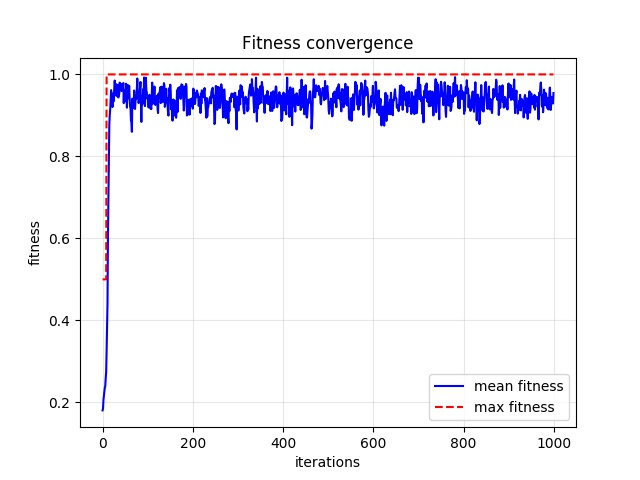
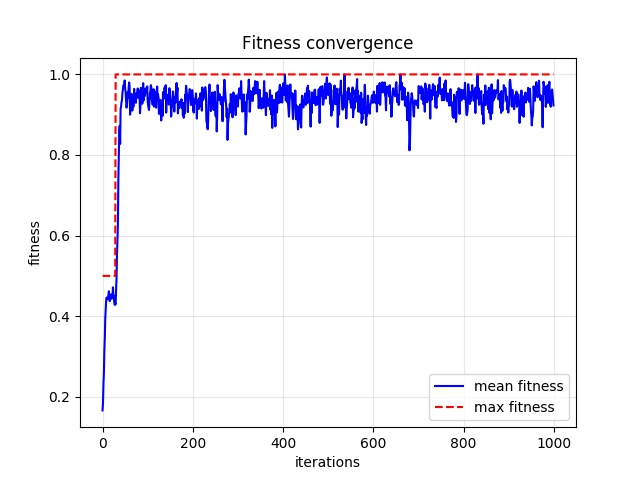
Add recombination pmx

diff --git a/n_queens/genetic_algorithm.py b/n_queens/genetic_algorithm.py
@@ -10,12 +10,20 @@ class MutationTypeError(Exception):
         super().__init__("Selected mutation type does not exist.")
 
 
+class RecombinationTypeError(Exception):
+    """
+    Selected recombination type does not exist.
+    """
+    def __init__(self):
+        super().__init__("Selected recombination type does not exist.")
+
+
 class GeneticAlgorithm:
     """
     Genetic algorithm for TSP.
     """
     def __init__(self, board_size=8, num_iterations=1000, population_size=100, offspring_size=20, mutation_rate=0.2,
-                 mutation_type="swap"):
+                 mutation_type="swap", recombination_type="pmx"):
         """
         Initializes the algorithm.
         """
@@ -25,6 +33,7 @@ class GeneticAlgorithm:
         self.offspring_size = offspring_size
         self.mutation_rate = mutation_rate
         self.mutation_type = mutation_type
+        self.recombination_type = recombination_type
         assert self.offspring_size < self.population_size, "Population size has to be greater than the number of selected individuals"
 
     def __repr__(self):
@@ -90,9 +99,11 @@ class GeneticAlgorithm:
 
         return fitness_population.flatten()
 
-    def recombination(self, parent1, parent2):
+    @staticmethod
+    def recombination_pmx(individual1, individual2, gene1=None, gene2=None):
         """
-        Creates a new individual by recombinating two parents.
+        Creates a new individual by recombinating two parents using the
+        Partially Mapped Crossover (PMX) method.
 
         Args:
             parent1 (np.array): First parent.
@@ -101,10 +112,52 @@ class GeneticAlgorithm:
         Returns:
             new_individual1, new_individual2 (tuple): Recombined individuals.
         """
-        crossover_points = np.random.randint(self.board_size)
-        new_individual1 = np.concatenate((parent1[:crossover_points], parent2[crossover_points:]))
-        new_individual2 = np.concatenate((parent2[:crossover_points], parent1[crossover_points:]))
+        # Copy parents
+        parent1 = individual1.copy()
+        parent2 = individual2.copy()
+
+        # Initialize new individuals
+        new_individual1 = -np.ones(len(individual1), dtype=int)
+        new_individual2 = -np.ones(len(individual2), dtype=int)
+
+        # Perform the pmx recombination
+        # 1. Select two genes at random and copy segment to new individual 1
+        if gene1 is None or gene2 is None:
+            gene1, gene2 = GeneticAlgorithm.choose_random_genes(individual1)
+        new_individual1[gene1:gene2 + 1] = parent1[gene1:gene2 + 1]
+        new_individual2[gene1:gene2 + 1] = parent2[gene1:gene2 + 1]
+
+        # 2. Replace elements from the segment in the other parent
+        for current_gene in range(gene1, gene2 + 1):
+            if parent2[current_gene] not in new_individual1:
+                pos = np.where(parent2 == parent1[current_gene])[0][0]
+                if new_individual1[pos] == -1:
+                    new_individual1[pos] = parent2[current_gene]
+                else:
+                    while new_individual1[pos] != -1:
+                        pos = np.where(parent2 == parent1[pos])[0][0]
+                    new_individual1[pos] = parent2[current_gene]
+            if parent1[current_gene] not in new_individual2:
+                pos = np.where(parent2 == parent2[current_gene])[0][0]
+                if new_individual2[pos] == -1:
+                    new_individual2[pos] = parent1[current_gene]
+                else:
+                    while new_individual2[pos] != -1:
+                        pos = np.where(parent1 == parent2[pos])[0][0]
+                    new_individual2[pos] = parent1[current_gene]
+
+        # 3. Complete empty positions with the segment of the opposite parent from 1.
+        new_individual1[np.where(new_individual1 == -1)] = parent2[np.where(new_individual1 == -1)]
+        new_individual2[np.where(new_individual2 == -1)] = parent1[np.where(new_individual2 == -1)]
+
         return (new_individual1, new_individual2)
+
+    @staticmethod
+    def choose_random_genes(individual):
+        gene1, gene2 = np.sort(np.random.choice(len(individual), size=(2, 1), replace=False).flatten())
+        while gene2 - gene1 < 2:
+            gene1, gene2 = np.sort(np.random.choice(len(individual), size=(2, 1), replace=False).flatten())
+        return (gene1, gene2)
 
     @staticmethod
     def mutation_swap(individual, gene1=None, gene2=None):
@@ -175,7 +228,7 @@ class GeneticAlgorithm:
         mutated_individual = np.concatenate((individual[:gene1], chromosome[::-1], individual[gene2 + 1:]))
         return mutated_individual
 
-    def generate_next_population(self, population, mutation):
+    def generate_next_population(self, population, mutation, recombination):
         """
         Generates the population for the next iteration.
 
@@ -191,7 +244,7 @@ class GeneticAlgorithm:
         # Recombinate best individuals
         for individual in range(0, self.offspring_size, 2):
             idx_parent1, idx_parent2 = np.random.choice(self.population_size, size=2, replace=False)
-            new_individual1, new_individual2 = self.recombination(population[idx_parent1], population[idx_parent2])
+            new_individual1, new_individual2 = recombination(population[idx_parent1], population[idx_parent2])
             offspring[individual] = new_individual1
             offspring[individual + 1] = new_individual2
 
@@ -240,9 +293,15 @@ class GeneticAlgorithm:
         else:
             raise MutationTypeError
 
+        # Select recombination
+        if self.recombination_type == "pmx":
+            recombination = self.recombination_pmx
+        else:
+            raise RecombinationTypeError
+
         # Iterate through generations
         for iteration in tqdm(range(self.num_iterations), ncols=75):
-            population, fitness = self.generate_next_population(population, mutation)
+            population, fitness = self.generate_next_population(population, mutation, recombination)
             best_fitness_iteration = np.max(fitness)
             mean_fitness_iteration = np.mean(fitness)
             max_fitness.append(best_fitness_iteration)

diff --git a/run.py b/run.py
@@ -13,9 +13,10 @@ population_size = 100
 offspring_size = 20
 mutation_rate = 0.2
 mutation_type = "inversion"
+recombination_type = "pmx"
 
 # Initialize genetic algorithm
-ga = GeneticAlgorithm(board_size, num_iterations, population_size, offspring_size, mutation_rate, mutation_type)
+ga = GeneticAlgorithm(board_size, num_iterations, population_size, offspring_size, mutation_rate, mutation_type, recombination_type)
 
 # Run algorithm
 solutions, max_fitness, mean_fitness = ga.run()
